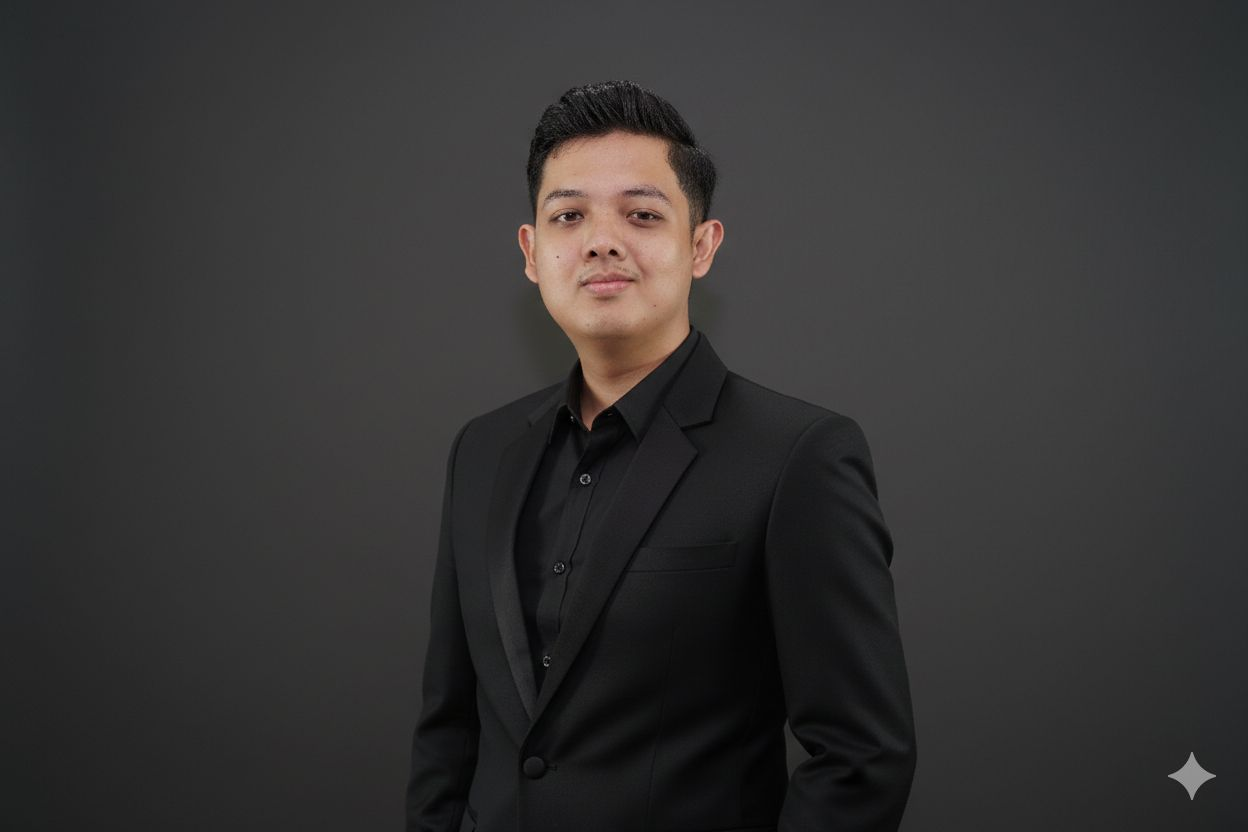
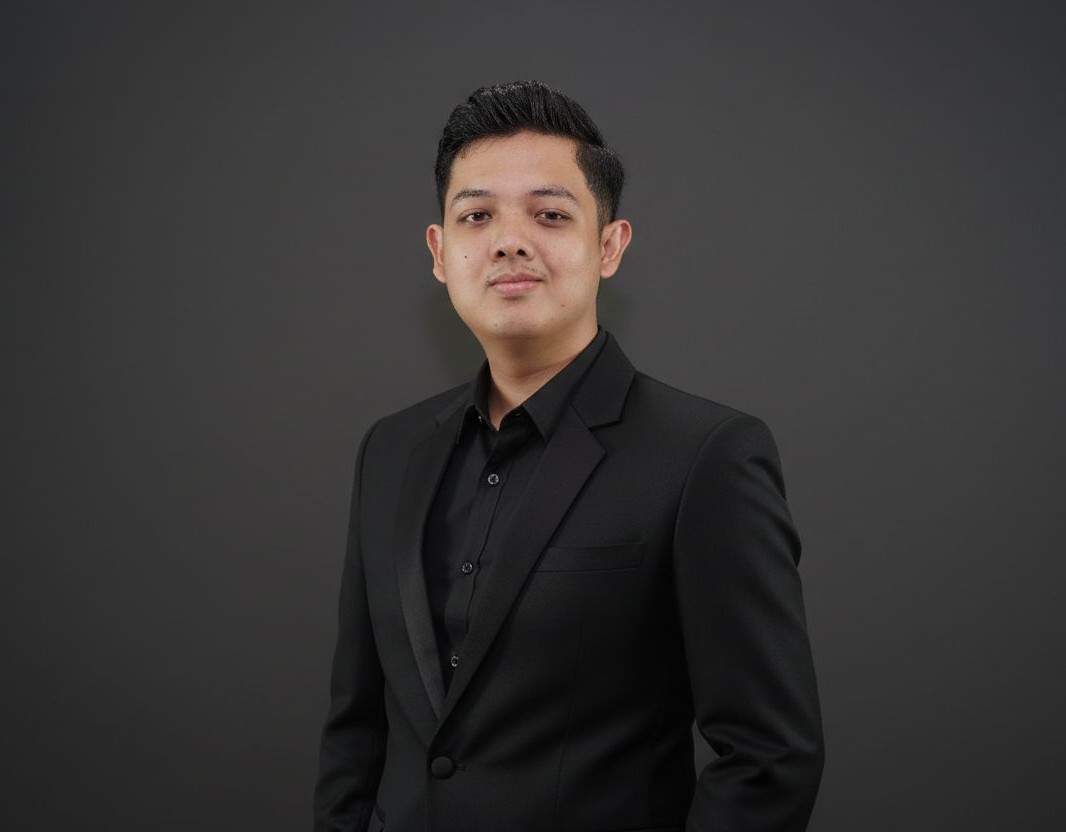
minor update

diff --git a/src/data/fallbackData.js b/src/data/fallbackData.js
@@ -2,7 +2,7 @@ export const profile = {
   name: "Fachruly Trigustiwan",
   major: "Ilmu Komunikasi",
   role: "Creative Content",
-  bio: "I am Fachruly Trigustiwan, a 22-year-old Bachelor of Communication Science graduate (2025) who loves photography, videography, and creative content development. I enjoy telling stories through visual media and constantly improving my skills in content planning, production, and editing.",
+  bio: "I am Fachruly Trigustiwan, a Communication Science graduate with a strong focus on photography, videography, and creative content development. I have experience in content planning, production, and visual storytelling across both institutional and community-based projects, with a commitment to delivering engaging and impactful media.",
   city: "Bandung, Indonesia",
   profileAltImage: "/media/pp.jpeg",
   socials: [
